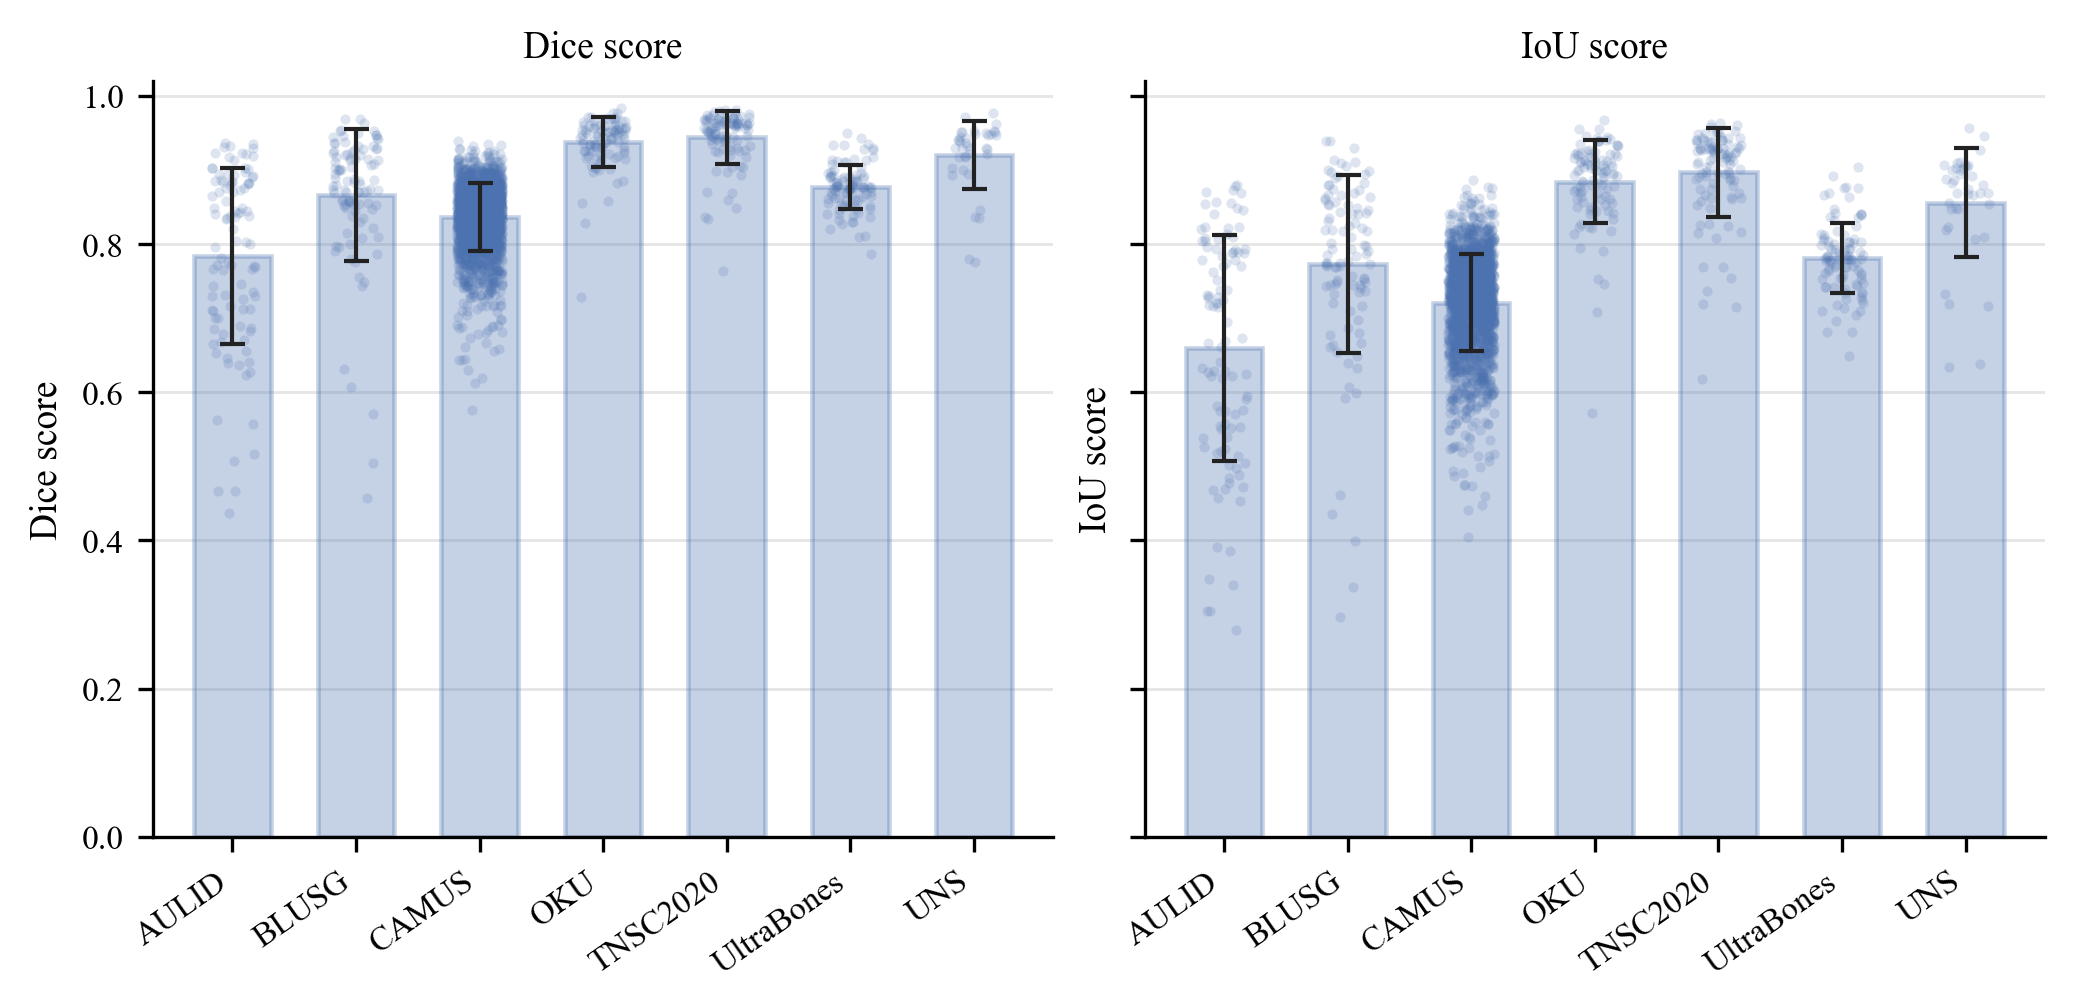
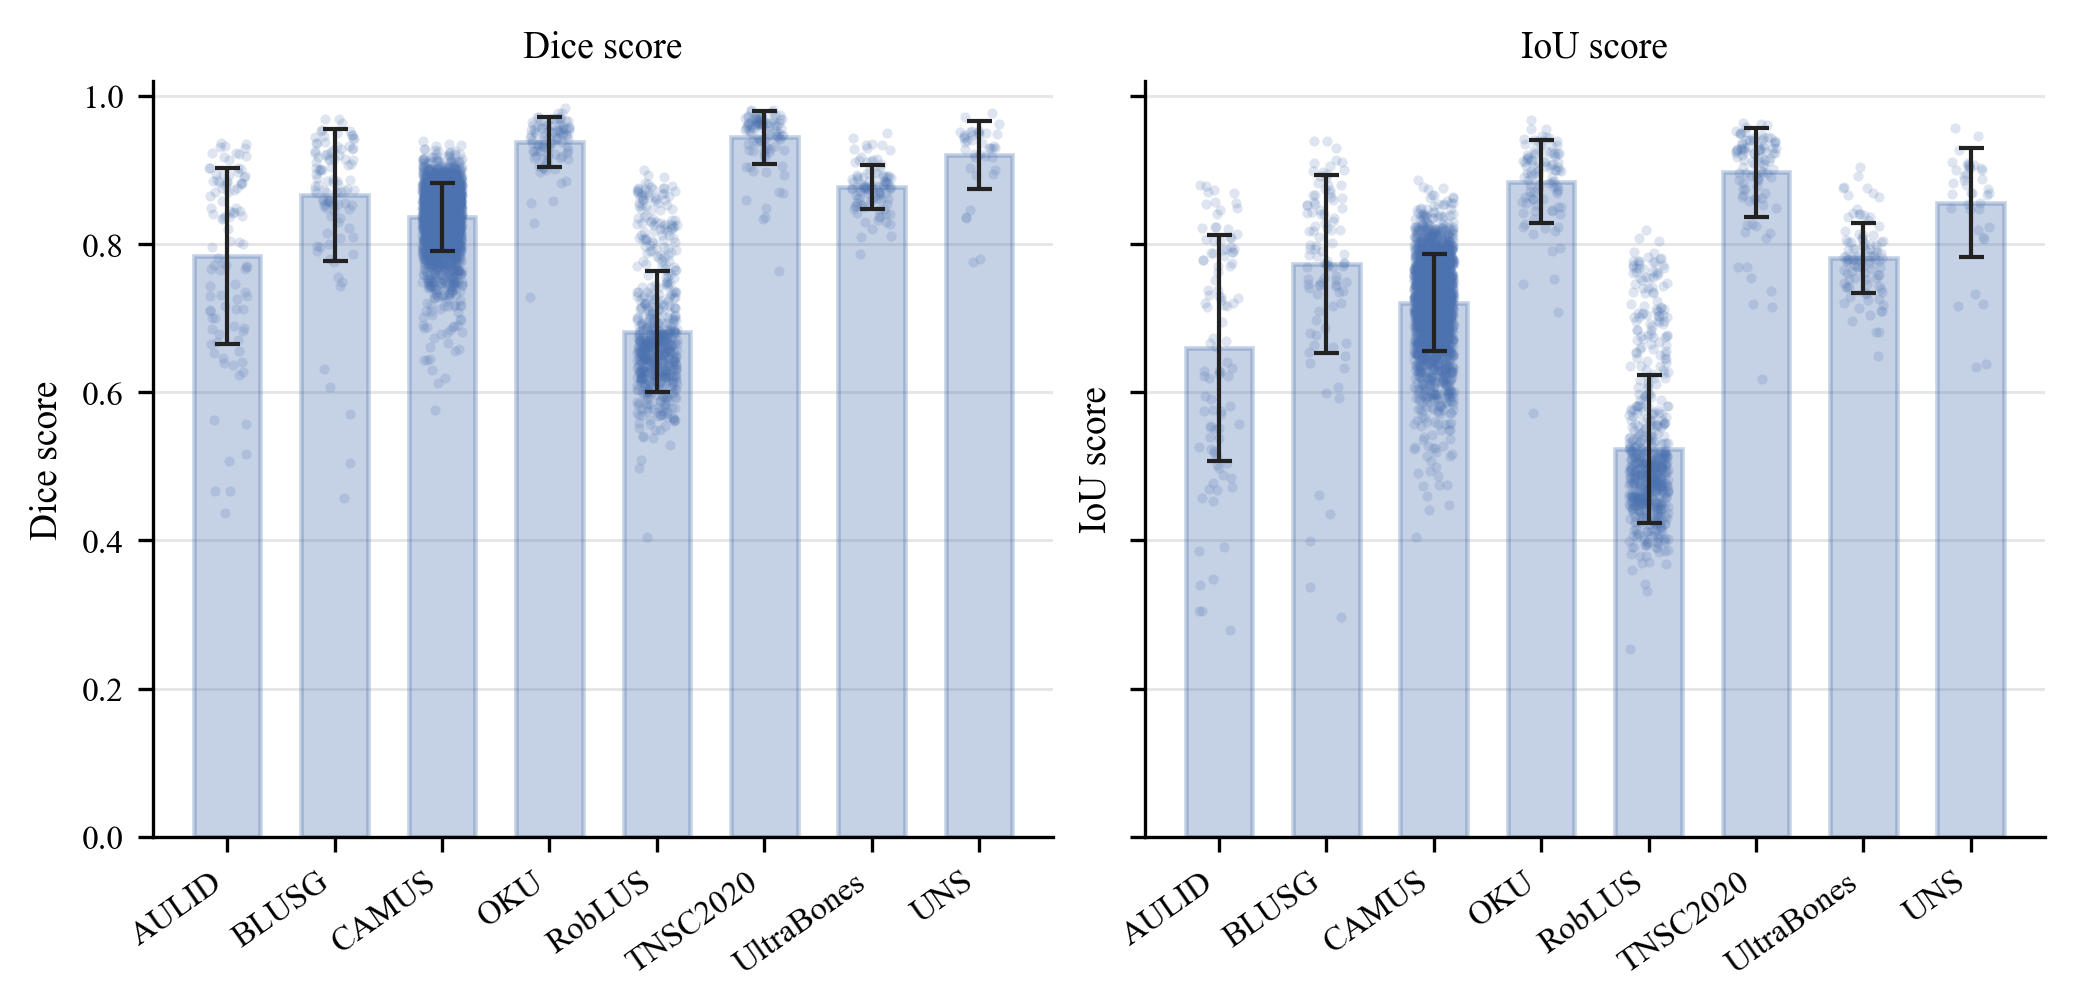
update analysis

diff --git a/analysis/model_across_datasets.py b/analysis/model_across_datasets.py
@@ -19,6 +19,7 @@ DATASET_LABELS = {
     "blusg": "BLUSG",
     "camus": "CAMUS",
     "oku": "OKU",
+    "roblus": "RobLUS",
     "tnsc2020": "TNSC2020",
     "ultrabones100k": "UltraBones",
     "uns": "UNS",
@@ -116,8 +117,9 @@ def read_per_sample_points(result_dir: Path) -> dict[str, list[float]]:
 
 
 def default_plot_path(protocol: str, model: str | None) -> Path:
-    model_label = model or "all_models"
-    return Path("analysis") / "figures" / f"model_across_datasets_{protocol}_{model_label}.png"
+    if model is None:
+        raise ValueError("A model filter is required for the default plot path.")
+    return Path("analysis") / "figures" / f"model_across_datasets_{protocol}_{model}.png"
 
 
 def _display_label(row: dict[str, Any], include_model: bool) -> str:
@@ -270,7 +272,10 @@ def main() -> None:
         "--plot-path",
         type=Path,
         default=None,
-        help="Figure output path. Defaults to analysis/figures/...",
+        help=(
+            "Figure output path. Defaults to analysis/figures/... for --model; "
+            "when --model is omitted, one default figure is saved per model."
+        ),
     )
     parser.add_argument(
         "--plot-title",
@@ -297,9 +302,19 @@ def main() -> None:
     if args.output_csv is not None:
         write_csv(rows, args.output_csv)
         print(f"\nSaved CSV to: {args.output_csv}")
-    if not args.no_plot:
-        plot_path = args.plot_path or default_plot_path(args.protocol, args.model or None)
+    if args.no_plot:
+        return
+
+    if args.model or args.plot_path is not None:
+        plot_path = args.plot_path or default_plot_path(args.protocol, args.model)
         plot_rows(rows, plot_path, title=args.plot_title)
+        print(f"Saved plot to: {plot_path}")
+        return
+
+    for model in sorted({row["model"] for row in rows}):
+        model_rows = [row for row in rows if row["model"] == model]
+        plot_path = default_plot_path(args.protocol, model)
+        plot_rows(model_rows, plot_path, title=args.plot_title)
         print(f"Saved plot to: {plot_path}")
 
 

diff --git a/analysis/compare_models_same_dataset.py b/analysis/compare_models_same_dataset.py
@@ -22,6 +22,7 @@ DATASET_LABELS = {
     "blusg": "BLUSG",
     "camus": "CAMUS",
     "oku": "OKU",
+    "roblus": "RobLUS",
     "tnsc2020": "TNSC2020",
     "ultrabones100k": "UltraBones",
     "uns": "UNS",
